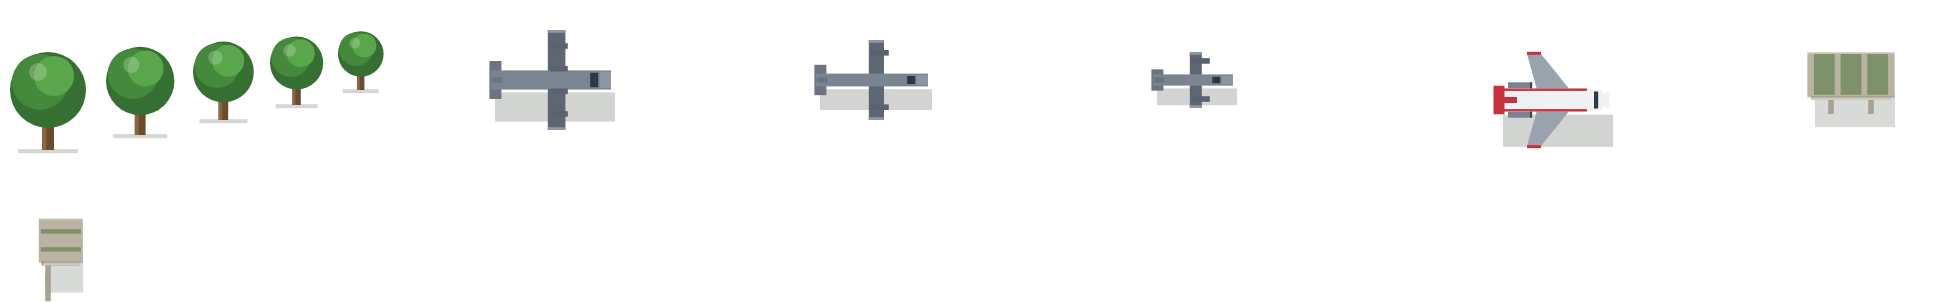
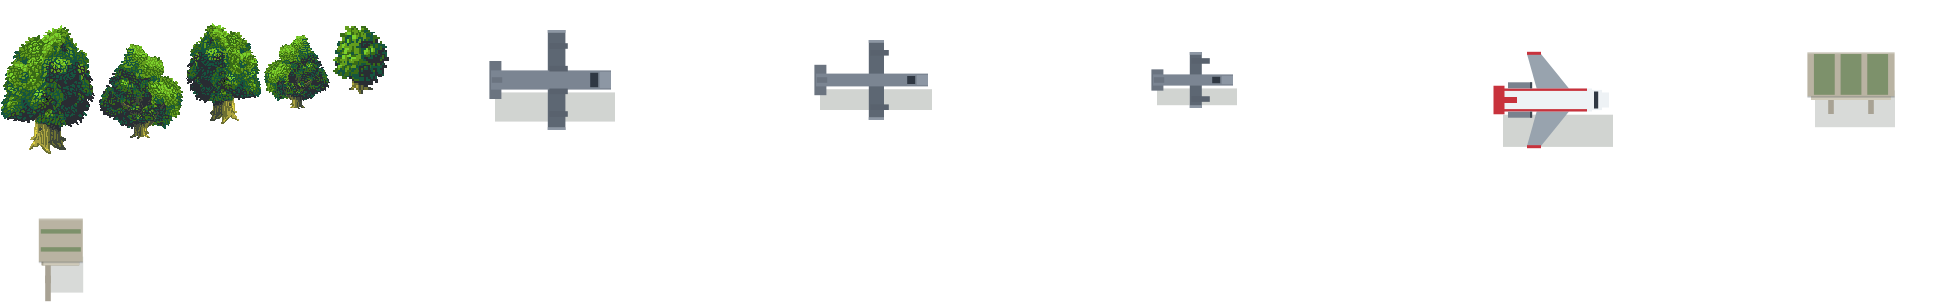
feat(art): 校园 260 棵树换成 OpenGameArt CC0 像素树，替掉渐变绿球
用户反馈「树木是 AI 粗略生成的，需要更正式化」。去 OpenGameArt
（2D Art 热门页 + bench/park/tree/animal/flowers/city 等关键词）筛了 20 多个包，
按授权只留 CC0、按风格排掉写实树/扁平图标/卡通矢量，最终选
Trees & Bushes（Luis Zuno / @ansimuz，CC0）。

- 关键结构：decor[0..4] 是同一棵渐变绿球的 5 个尺寸变体，260 棵树的
  instances[].sp 全落在这 5 格；decor[5..10] 是飞机和设施。所以只重写
  assets/decor_0.png 的前 5 个矩形 —— world.json / world.tscn / 地面烘焙链
  （按 instances 下标画树影）一个字节都不动，天然幂等
- 源素材用 PSD 的 vegetation 透明图层（原包那张带草地背景，抠图会留噪点），
  连同 license.txt 放进 assets/oga_src/trees_bushes/（CC0 允许分发、共 18KB）；
  完整原包含 PSD 放 references/oga/trees_bushes/ 不入库
- tools/import_oga_trees.py：NEAREST + alpha 二值缩放；暗部多提/亮部少提的
  非线性调色（lift=0.26），把深青绿抬到贴合亮黄绿草地又不荧光；极暗紫黑往
  深绿靠一点；两种主树形交替 + 镜像 + 小幅明暗差，5 格不再是同一张图复制
- --dry 出槽位预览，--lift 可调；写完需 godot --headless --import 刷缓存
- README 数据与声明补 CC0 来源

验收：同机位前后实机对照（build/_oga_trees_before_after.png）、
全景/近景截图、三档提亮对照；渐变绿球变成有枝叶层次、树干、多种树形的
正式像素树，配色与草地协调，无草地噪点残留/方块底/漂浮感

Changed region(s): [[0.0, 0.0894, 0.2157, 0.5066]]

diff --git a/tools/import_oga_trees.py b/tools/import_oga_trees.py
@@ -1,0 +1,145 @@
+"""把 OpenGameArt 的 CC0 像素树铺进 assets/decor_0.png 的前 5 个槽位。
+
+来源： OpenGameArt "Trees & Bushes" —— Luis Zuno (@ansimuz)，CC0
+       https://opengameart.org/content/trees-bushes
+CC0 允许分发，所以可复现所需的透明层 + 授权放在 assets/oga_src/trees_bushes/；
+完整原包（含 PSD、带草地背景的预览图）另存于项目根 references/oga/trees_bushes/，
+那份不入库。vegetation.png 是从 PSD 的 `vegetation` 图层导出的**透明底**素材
+（原包里那张 trees-and-bushes.png 带草地背景，直接抠会留噪点，别用）。
+
+为什么只动前 5 格：
+  world.json 的 decor[0..4] 是同一棵「渐变绿球」的 5 个尺寸变体，
+  260 棵树的 instances[].sp 全部落在这 5 个索引上；decor[5..10] 是
+  飞机和设施，跟树无关。所以这个函数是**幂等**的：每次只清空并重写
+  这 5 个矩形，图集其余部分一个像素都不碰；world.json / world.tscn /
+  地面烘焙链（按 instances 数组下标画树影）全都不受影响。
+
+⚠ 缩放一律 NEAREST + alpha 二值：像素字/像素画一旦被 LANCZOS 抹出
+半透明边，实机就会糊成一团。
+
+用法：
+  python tools/import_oga_trees.py             # 写入 assets/decor_0.png
+  python tools/import_oga_trees.py --dry       # 只出 build/_oga_trees_preview.png
+  python tools/import_oga_trees.py --lift 0.30 # 调提亮强度（0 = 原色）
+写完后要跑一次 godot --headless --import 才能刷新导入缓存。
+"""
+
+from __future__ import annotations
+
+import argparse
+import json
+from pathlib import Path
+
+import numpy as np
+from PIL import Image, ImageDraw
+
+GAME = Path(__file__).resolve().parent.parent
+SRC_DIR = GAME / "assets" / "oga_src" / "trees_bushes"
+ATLAS = GAME / "assets" / "decor_0.png"
+WORLD = GAME / "assets" / "world.json"
+
+# vegetation.png 里各棵树的包围盒（原图 288x160）
+# (bbox, 水平镜像, 相对提亮, 纵向拉伸, 名字)
+# 两种主形交替 + 小幅明暗差，避免 260 棵树看起来是同一张图复制的
+TREES = [
+    ((120, 7, 222, 137), False, 1.00, 1.08, "高冠树"),
+    ((0, 7, 113, 120), True, 1.06, 1.12, "圆冠树·镜像"),
+    ((120, 7, 222, 137), True, 0.96, 1.06, "高冠树·镜像·略深"),
+    ((0, 7, 113, 120), False, 1.10, 1.12, "圆冠树·亮"),
+    ((240, 116, 272, 153), False, 1.05, 1.05, "小圆树"),
+]
+
+
+def lift_colors(im: Image.Image, amount: float) -> Image.Image:
+    """暗部多提、亮部少提，保持 RGB 比例（色相不变），层次不会压平成一团灰。
+
+    原素材主体是 (52,97,37) 的深青绿，草地却是 (101,141,65) 的亮黄绿，
+    直接铺上去树会像一坨深色污渍。这个非线性提亮把主体抬到接近草地、
+    又不动亮部的黄绿高光。
+    """
+    a = np.asarray(im).astype(np.float32)
+    rgb = a[..., :3]
+    lum = rgb.mean(axis=2) / 255.0
+    scale = 1.0 + amount * (1.0 - lum) ** 1.2
+    out = rgb * scale[..., None]
+    # 极暗的紫黑色（树冠阴影）往深绿靠一点，别在绿草地上发紫
+    dark = lum < 0.28
+    out[dark] = out[dark] * 0.78 + np.array([28.0, 58.0, 32.0]) * 0.22
+    out = np.clip(out, 0, 255).astype(np.uint8)
+    return Image.fromarray(np.dstack([out, a[..., 3].astype(np.uint8)]), "RGBA")
+
+
+def prepare(im: Image.Image, amount: float, flip: bool,
+            target_w: int, target_h_max: int, stretch: float) -> Image.Image:
+    if flip:
+        im = im.transpose(Image.FLIP_LEFT_RIGHT)
+    px = im.load()
+    for y in range(im.height):
+        for x in range(im.width):
+            r, g, b, a = px[x, y]
+            px[x, y] = (r, g, b, 255 if a >= 110 else 0)
+    im = lift_colors(im, amount)
+    k = target_w / im.width
+    w = max(1, round(target_w))
+    h = max(1, min(target_h_max, round(im.height * k * stretch)))
+    return im.resize((w, h), Image.NEAREST)
+
+
+def build(amount: float) -> Image.Image:
+    veg = Image.open(SRC_DIR / "vegetation.png").convert("RGBA")
+    defs = json.loads(WORLD.read_text(encoding="utf-8"))["decor"]
+    out = Image.open(ATLAS).convert("RGBA")
+    for i, (box, flip, rel, stretch, name) in enumerate(TREES):
+        d = defs[i]
+        rx, ry, w, h = int(d["rx"]), int(d["ry"]), int(d["w"]), int(d["h"])
+        cut = veg.crop(box)
+        tree = prepare(cut, amount * rel, flip, w - 2, h - 8, stretch)
+        # 清空原槽位（绿球），树底部留 6px、水平居中
+        out.paste((0, 0, 0, 0), (rx, ry, rx + w, ry + h))
+        out.alpha_composite(tree, (rx + (w - tree.width) // 2, ry + h - tree.height - 6))
+        print(f"  槽位 {i} {w:3d}x{h:<3d} <- {name:16s} {tree.width}x{tree.height}")
+    return out
+
+
+def preview(atlas: Image.Image, defs: list, path: Path) -> None:
+    """把 5 个树槽位并排放大，方便不进游戏就比对配色。"""
+    Z = 3
+    tiles = [atlas.crop((d["rx"], d["ry"], d["rx"] + d["w"], d["ry"] + d["h"]))
+             for d in defs[:5]]
+    W = sum(t.width * Z + 16 for t in tiles)
+    H = max(t.height for t in tiles) * Z + 40
+    board = Image.new("RGBA", (W, H), (250, 250, 252, 255))
+    dr = ImageDraw.Draw(board)
+    x = 8
+    for i, t in enumerate(tiles):
+        z = t.resize((t.width * Z, t.height * Z), Image.NEAREST)
+        board.alpha_composite(z, (x, 32))
+        dr.text((x, 10), f"{i}  {t.width}x{t.height}", fill=(30, 36, 44, 255))
+        x += t.width * Z + 16
+    path.parent.mkdir(parents=True, exist_ok=True)
+    board.convert("RGB").save(path)
+    print(f"  预览 -> {path}")
+
+
+def main() -> None:
+    ap = argparse.ArgumentParser()
+    ap.add_argument("--lift", type=float, default=0.26,
+                    help="提亮强度，0=素材原色，0.26=贴合草地又不荧光（默认）")
+    ap.add_argument("--dry", action="store_true", help="不写图集，只出预览")
+    args = ap.parse_args()
+
+    if not (SRC_DIR / "vegetation.png").exists():
+        raise SystemExit(f"缺素材：{SRC_DIR / 'vegetation.png'}")
+    print(f"[oga-trees] lift={args.lift}")
+    out = build(args.lift)
+    defs = json.loads(WORLD.read_text(encoding="utf-8"))["decor"]
+    preview(out, defs, GAME / "build" / "_oga_trees_atlas.png")
+    if args.dry:
+        print("[oga-trees] --dry，未写 assets/decor_0.png")
+        return
+    out.save(ATLAS)
+    print(f"[oga-trees] 已写 {ATLAS}（其余 6 个槽位保持原样）")
+
+
+if __name__ == "__main__":
+    main()
